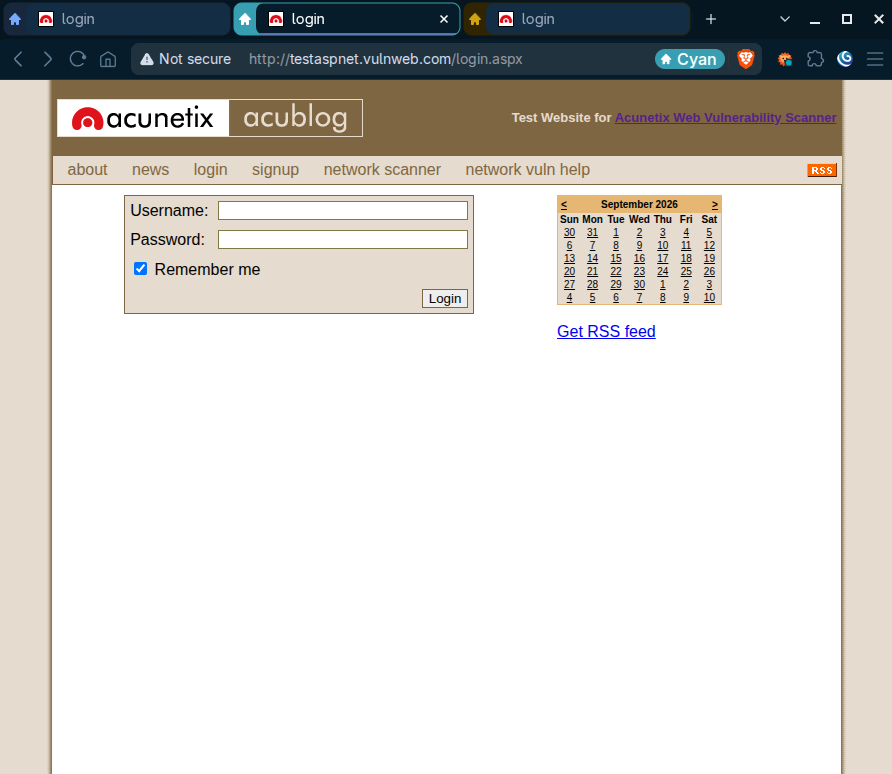
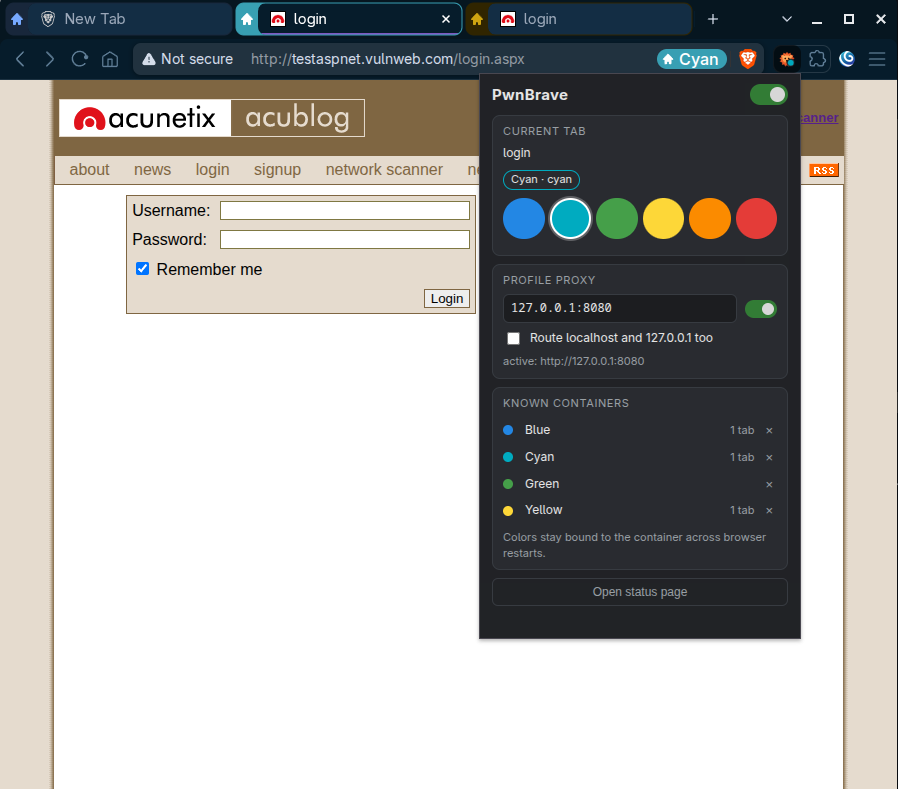
Show the popup over a container tab in the README

diff --git a/README.md b/README.md
@@ -59,7 +59,7 @@ Tabs that are already open get picked up automatically.
    choice sticks to the container, even across browser restarts.
 5. In Burp, with the PwnFox extension loaded, requests arrive already highlighted.
 
-![The same login page open in the Blue, Cyan and Yellow containers](assets/containers-in-tabs.png)
+![A tab in the Cyan container with the PwnBrave popup open](assets/containers-in-tabs.png)
 
 ### Colors
 
